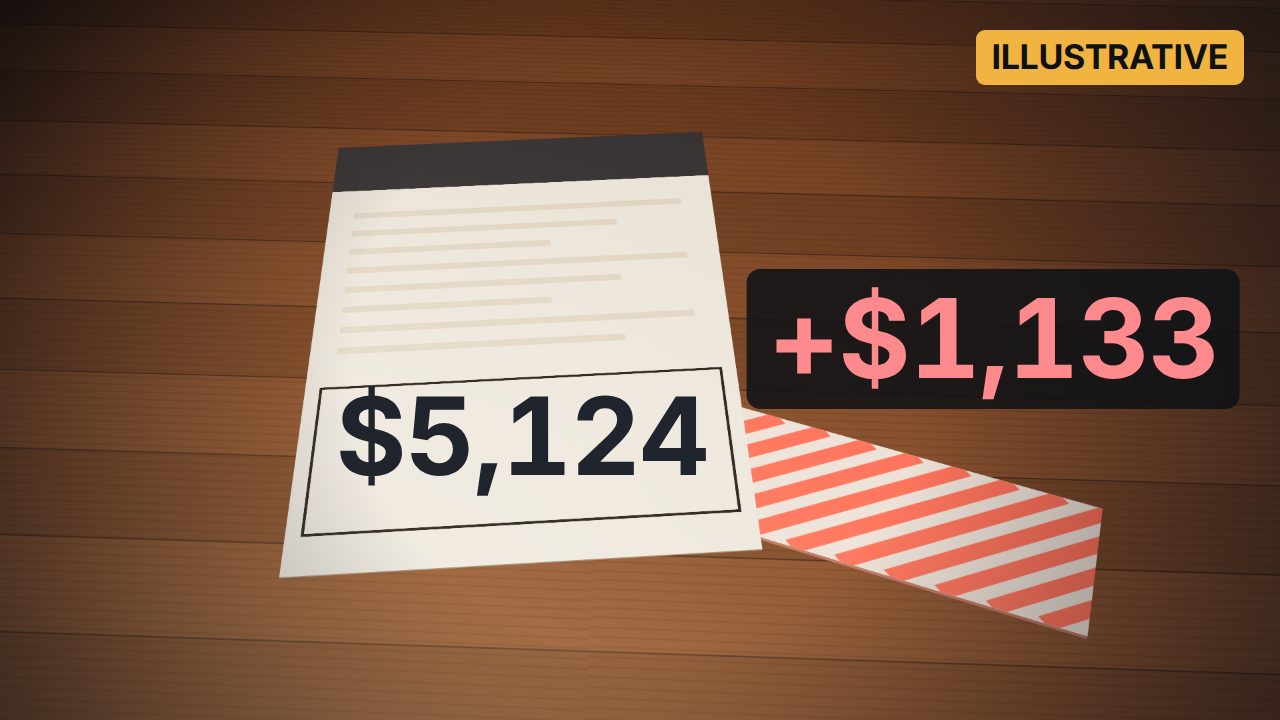
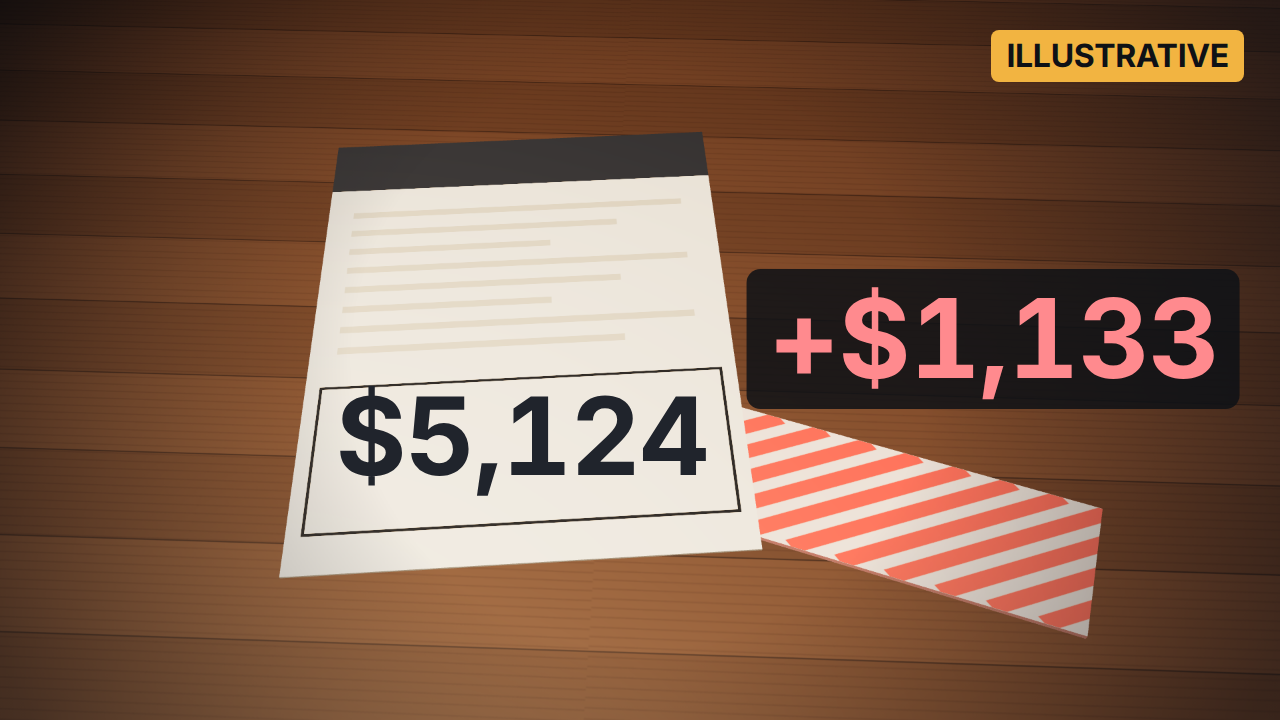
ep001 gói phát hành chốt: tiêu đề c2, thumbnail W/thumb-3/L, mô tả DA, end screen E1; L huy hiệu theo token; bài học playbook
Claude-Session: https://claude.ai/code/session_016EPtam7ttrjQMg4sTyN4PK

Changed region(s): [[0.75, 0.0306, 0.9688, 0.1222]]

diff --git a/episodes/ep001/preprod/thumbs_v2/render.js b/episodes/ep001/preprod/thumbs_v2/render.js
@@ -35,7 +35,10 @@ const T = (id, x, y, px, text, o = {}) => {
   const tx = o.anchor === 'c' ? 'translateX(-50%)' : o.anchor === 'r' ? 'translateX(-100%)' : 'none';
   return `<div class="t${o.plate ? ' pl' : ''}" data-t="${id}" data-px="${px}" style="left:${Math.round(x)}px;top:${Math.round(y)}px;font-size:${px}px;color:${o.color || tok.text};transform:${tx};${o.plate ? `background:${o.plate};` : ''}${o.extra || ''}">${text}</div>`;
 };
-const BADGE = (px = 34) => `<div class="t" data-t="badge" data-px="${px}" style="right:36px;top:30px;font-size:${px}px;color:${tok['badge-text']};background:${tok['badge-bg']};padding:10px 16px 11px;border-radius:9px">ILLUSTRATIVE</div>`;
+// Badge size = signed type token (design/c3/final/tokens.json type.badge, 48 px at 1080) scaled 2/3 like the still: 32 px
+// (owner, 30/09: keep ILLUSTRATIVE on L, sized by the token; P01's 90 px floor is waived for the badge, THAM KHẢO).
+const BADGE_TOK = JSON.parse(fs.readFileSync(path.join(C3, 'tokens.json'), 'utf8')).type.badge;
+const BADGE = (px = Math.round(BADGE_TOK.px * 2 / 3)) => `<div class="t" data-t="badge" data-px="${px}" style="right:36px;top:30px;font-size:${px}px;font-weight:${BADGE_TOK.weight};color:${tok['badge-text']};background:${tok['badge-bg']};padding:${Math.round(px * 0.3)}px ${Math.round(px * 0.47)}px ${Math.round(px * 0.32)}px;border-radius:${Math.round(px * 0.26)}px">ILLUSTRATIVE</div>`;
 const s = (p) => ({ x: p.x * 2 / 3, y: p.y * 2 / 3 });
 
 const THUMBS = {

diff --git a/episodes/ep001/out/package/v2/upload-sheet.md b/episodes/ep001/out/package/v2/upload-sheet.md
@@ -1,14 +1,14 @@
 # Tập 1 · Phiếu tải lên YouTube (PACKAGING v2, 30/09/2026)
 
-Phiếu điền cho YouTube Studio. Chỗ nào ghi **ĐỀ XUẤT** là việc chủ dự án chọn. Chữ công khai viết tiếng Anh, ghi chú viết tiếng Việt. Tệp phim: `out/video.mp4` (591,3 s = **9:51**; PACKAGING không động vào).
+Phiếu điền cho YouTube Studio. **Chủ dự án đã chốt 30/09/2026:** tiêu đề c2, thumbnail W (mặc định) + thumb-3 + L cho Test & Compare, mô tả DA, end screen E1. Chỗ còn ghi **ĐỀ XUẤT** là việc chủ dự án chọn khi tải lên. Chữ công khai viết tiếng Anh, ghi chú viết tiếng Việt. Tệp phim: `out/video.mp4` (591,3 s = **9:51**; PACKAGING không động vào).
 
 ## 1. Chi tiết
 
 | Trường | Giá trị |
 |---|---|
-| Title | **ĐỀ XUẤT**: một trong 6 tiêu đề ở `titles.md §1` (hoặc T1 hiện hành). Nếu dùng Test & Compare (tiêu đề + thumbnail), đưa gói thắng so cặp mù cùng T1 làm đối chứng. |
-| Description | `description.md` (hai dòng đầu DA; DB ở `titles.md §3`). Chapters đã có sẵn (0:00 …), phải bắt đầu bằng 0:00. |
-| Thumbnail | **ĐỀ XUẤT**: `thumb-H.png` / `thumb-L.png` / `thumb-W.png` (1280×720, PNG < 2 MB). Test & Compare cho tối đa 3 thumbnail: ba ảnh v2, hoặc hai ảnh v2 và `../thumb-3.png` làm đối chứng. |
+| Title | **Borrowed Over 7% in 2023? The Rate Cut a Refinance Needs** (c2, 56 ký tự; chốt 30/09). Test & Compare chỉ thử thumbnail, tiêu đề giữ cố định. |
+| Description | `description.md` — hai dòng đầu **DA** (chốt 30/09). Chapters đã có sẵn (0:00 …), phải bắt đầu bằng 0:00. |
+| Thumbnail | Test & Compare, 3 ảnh (chốt 30/09): **`thumb-W.png` (mặc định, tải lên đầu tiên)**, `../thumb-3.png`, `thumb-L.png`. Bỏ H. L giữ huy hiệu ILLUSTRATIVE cỡ theo token (32 px = 48 px × 2/3), vì $1,133 là số của nhân vật minh hoạ; W không cần huy hiệu (5.98% là số thật, `low2026`). Cả ba 1280×720, PNG < 2 MB. |
 | Playlist | **ĐỀ XUẤT**: tạo "Refinance & Mortgage Math" (Tập 1 là video đầu). Tên kênh dự phòng: "Crux: Money Math, Checked". |
 | Audience | **Made for kids: No** ("No, it's not made for kids"). |
 | Age restriction | Không. |
@@ -57,7 +57,7 @@ Câu này hỏi con số trên lá thư chứ không hỏi thông tin cá nhân 
 
 Kiểm claim: `cut36_small` 1.12, `cut36_median` 0.5 ("half a point", S18.5), `cut36_large_words` "about a third of a point", `loan_small` / `loan_median` / `loan_large`, `cost_median` $5,124, `anchor_date`. Chương 8:07 "A line for each loan size". Quét S10: 0 khớp.
 
-## 6. End screen (ĐỀ XUẤT, không render lại)
+## 6. End screen — **E1** (chốt 30/09, không render lại)
 
 **Vấn đề.** Lời cuối (S20.5 "How long do you picture yourself in your home?") bắt đầu ở 588,3 s, phim hết ở 591,3 s. 20 s cuối (571–591 s) là cảnh S20 đầy chữ: tiêu đề trên cùng, "+$8,093 ahead / if she stays 7 years" giữa phải, câu hỏi cuối và thước năm ở dưới (khung đã xem ở 572 s, 582 s, 589 s). Không có vùng trống dành cho phần tử end screen, nên đặt phần tử nào cũng che số hoặc câu hỏi.
 
@@ -67,10 +67,10 @@ Kiểm claim: `cut36_small` 1.12, `cut36_median` 0.5 ("half a point", S18.5), `c
 
 ## 7. Trước khi bấm Public
 
-- [ ] Chọn tiêu đề + thumbnail (hoặc bật Test & Compare).
-- [ ] Mô tả: DA hoặc DB, bấm thử link FHFA.
+- [ ] Tiêu đề c2; bật Test & Compare với W (mặc định), thumb-3, L.
+- [ ] Mô tả DA (`description.md`); bấm thử link FHFA.
 - [ ] Altered or synthetic = Yes; Made for kids = No; Education; English.
 - [ ] Phụ đề `captions.srt`.
 - [ ] Playlist.
-- [ ] End screen E1 (hoặc bỏ qua, chờ E2).
+- [ ] End screen E1 (5 s, 2 phần tử), xem trước trong Studio.
 - [ ] Đăng bình luận ghim.

diff --git a/episodes/ep001/ledger.md b/episodes/ep001/ledger.md
@@ -77,3 +77,5 @@ Mỗi agent con và mỗi cổng ghi một dòng. Thời gian UTC. "Ký tự EL"
 | 2026-09-30 | PACKAGING v2 · tiêu đề, mô tả, phiếu tải lên | 0 | `out/package/v2/titles.md`: 6 tiêu đề (a nghịch lý, b chi phí ẩn, c "người như tôi"), 41–60 ký tự, claim từng cái, quét regex S10: 0; "luật 1%" → "1-Point Rule"; 2 phương án hai dòng đầu (DA 142, DB 138 ký tự); `description.md` (DA + thân D1 + link FHFA 2026); `upload-sheet.md` (tags 323 ký tự, 3 hashtag, Education, English, Made for kids No, Altered/synthetic YES, playlist, giờ đăng ĐỀ XUẤT thứ Năm 01/10 10:00 ET trước PMMS, câu mời bình luận, bình luận ghim, end screen E1 5 s / E2 đuôi 15–20 s — không render). | — |
 | 2026-09-30 | PACKAGING v2 · vật liệu so cặp mù | 0 | `review-c6/pack-test/`: thẻ kết quả tìm kiếm (thumbnail + 9:51 + tiêu đề + "Crux") cho 7 gói (6 tiêu đề mới theo H/L/W + đối chứng T1/thumb-3): 42 ảnh cặp (21 cặp × 2 thứ tự) + 6 ảnh chỉ thumbnail (cùng tiêu đề T1); tên hex ngẫu nhiên (`crypto`), khoá `key.json`, `prompt.txt` (câu hỏi cố định); thẻ từng gói `out/package/v2/cards/`. P2 chạy agent mù. | — |
 | 2026-09-30 | PACKAGING v2 · playbook nháp | 0 | `playbook/packaging.md` (NHÁP, chờ duyệt ở tổng kết Tập 1): nguyên tắc (không luật đếm), thư viện 8 kiểu móc, kiểm 3 lớp (L1 claim/S10/độ dài/quyền/đọc 25–10 %; L2 tay nghề; L3 so cặp mù + chủ dự án + Test & Compare), đề xuất đưa gói vào C1/C3/C6 Tập 2, đề xuất sửa P01 + P02. CHARTER không sửa. | — |
+| 2026-09-30 | PACKAGING v2 · so cặp mù | 48 agent | 48 agent mới, một ảnh mỗi agent, câu hỏi cố định; giải mã sau khi đủ: gói c2 12/12, c1 10/12, T1 8/12, b2 6/12, a1 3/12, b1 2/12, a2 1/12; thumbnail W 4/4, L 1/4, H 1/4; lệch vị trí 19/23. `review-c6/pack-test/results.md` + `<id>/answer.md` nguyên văn. | — |
+| 2026-09-30 | PACKAGING v2 · chốt | 0 | Chủ dự án chốt: tiêu đề c2, Test & Compare W (mặc định) + thumb-3 + L (bỏ H), mô tả DA, end screen E1. `thumb-L` render lại: huy hiệu ILLUSTRATIVE theo token `type.badge` (48 px × 2/3 = 32 px, 700), tương phản 10% 3,12. `upload-sheet.md`, `description.md` cập nhật; `playbook/packaging.md` §6 ba bài học. Sổ gu "G-009 · C6 · gói v2" + AUTHORSHIP trên main `4be41cd`. | — |

diff --git a/episodes/ep001/out/package/v2/description.md b/episodes/ep001/out/package/v2/description.md
@@ -1,4 +1,4 @@
-<!-- out/package/v2/description.md · PACKAGING v2 (2026-09-30). First two lines = option DA (titles.md §3; option DB there). Body = the approved C5 description (D1) unchanged, plus the FHFA link. Owner picks. -->
+<!-- out/package/v2/description.md · PACKAGING v2 (2026-09-30). First two lines = option DA — CHOSEN by the owner 30/09 (DB not used). Body = the approved C5 description (D1) unchanged, plus the FHFA link. -->
 
 Got a refinance offer? Here is how big a rate cut it takes to earn back the fees within 3 years, and why the answer depends on your loan size.
 
